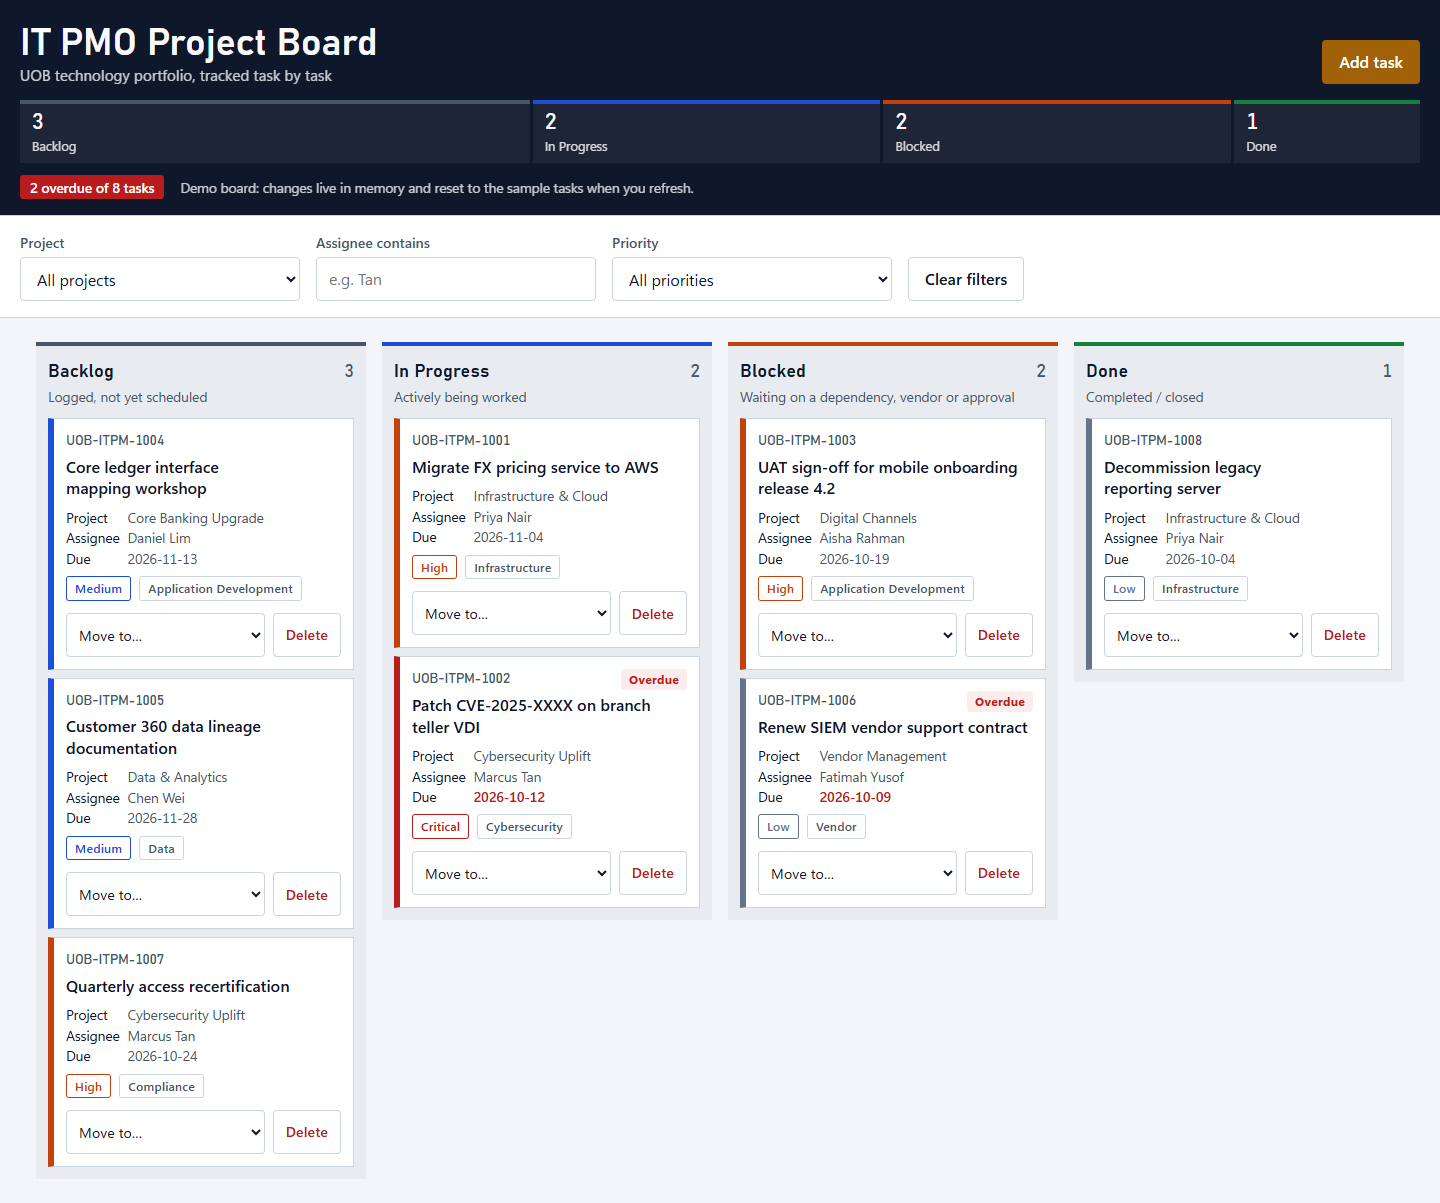
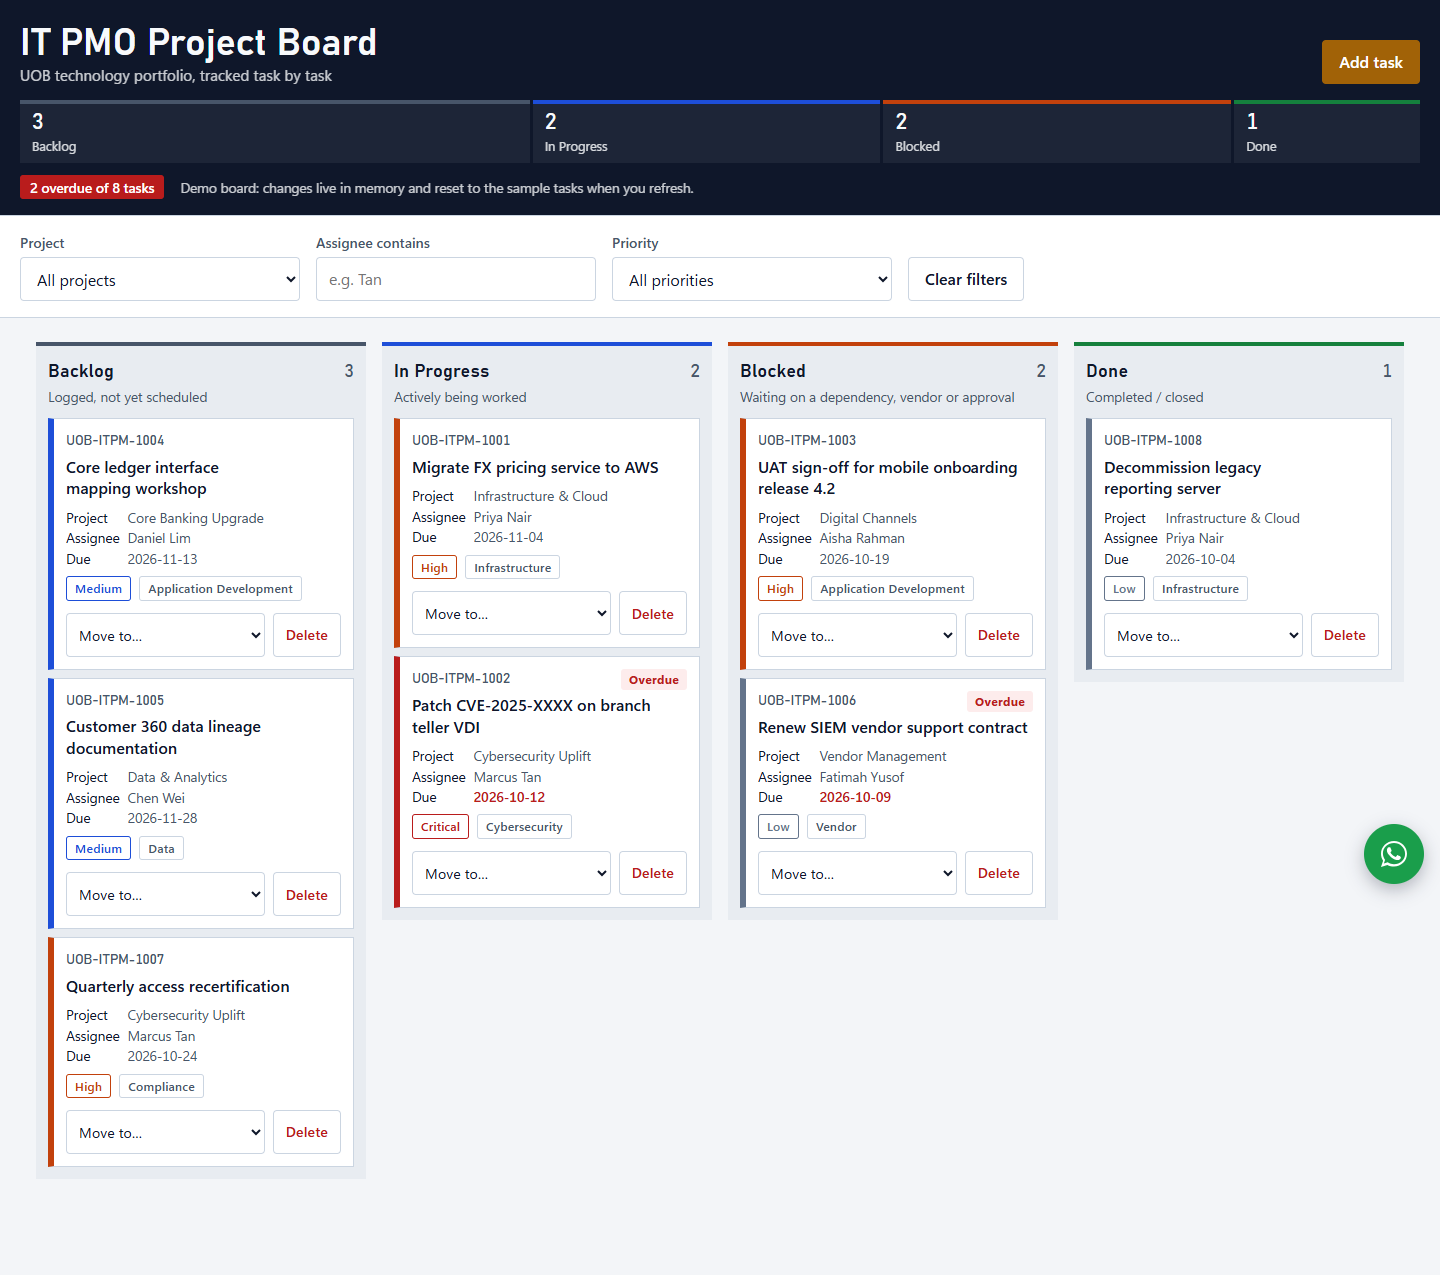
Add floating WhatsApp IT support widget

diff --git a/index.html b/index.html
@@ -36,6 +36,9 @@
   --seg-inprogress: #1d4ed8;
   --seg-blocked: #c2410c;
   --seg-done: #15803d;
+  --wa: #1a9e4b;
+  --wa-dark: #075e54;
+  --wa-soft: #e8f7ee;
   --font-display: Bahnschrift, "DIN Alternate", "Segoe UI", system-ui, sans-serif;
   --font-body: "Segoe UI Variable Text", "Segoe UI", system-ui, -apple-system, "Helvetica Neue", Arial, sans-serif;
   --space-1: 4px; --space-2: 8px; --space-3: 12px; --space-4: 16px; --space-6: 24px;
@@ -46,7 +49,7 @@
     --line: #2a3850; --navy: #060b16; --navy-ink: #f1f5f9; --trust: #93b4ff; --gold: #d4a017; --gold-ink: #0b1220;
     --focus: #facc15; --p-critical: #f87171; --p-high: #fb923c; --p-medium: #7aa2ff; --p-low: #94a3b8;
     --danger: #f87171; --danger-soft: #3b1a1a;
-    --seg-backlog: #64748b; --seg-inprogress: #3b6cf0; --seg-blocked: #d9622b; --seg-done: #22a35a;
+    --seg-backlog: #64748b; --seg-inprogress: #3b6cf0; --seg-blocked: #d9622b; --seg-done: #22a35a; --wa: #1a9e4b; --wa-dark: #0b6b5f; --wa-soft: #12321f;
     color-scheme: dark;
   }
 }
@@ -55,10 +58,11 @@
   --line: #2a3850; --navy: #060b16; --navy-ink: #f1f5f9; --trust: #93b4ff; --gold: #d4a017; --gold-ink: #0b1220;
   --focus: #facc15; --p-critical: #f87171; --p-high: #fb923c; --p-medium: #7aa2ff; --p-low: #94a3b8;
   --danger: #f87171; --danger-soft: #3b1a1a;
-  --seg-backlog: #64748b; --seg-inprogress: #3b6cf0; --seg-blocked: #d9622b; --seg-done: #22a35a;
+  --seg-backlog: #64748b; --seg-inprogress: #3b6cf0; --seg-blocked: #d9622b; --seg-done: #22a35a; --wa: #1a9e4b; --wa-dark: #0b6b5f; --wa-soft: #12321f;
   color-scheme: dark;
 }
 * { box-sizing: border-box; }
+[hidden] { display: none !important; }
 body { margin: 0; background: var(--bg); color: var(--ink); font: 16px/1.5 var(--font-body); }
 button, input, select { font: inherit; color: inherit; }
 :focus-visible { outline: 3px solid var(--focus); outline-offset: 2px; }
@@ -147,6 +151,24 @@ button, input, select { font: inherit; color: inherit; }
 .btn-delete:hover { border-color: var(--danger); }
 .confirm { margin-top: var(--space-2); padding: var(--space-2) var(--space-3); background: var(--danger-soft); display: flex; flex-wrap: wrap; gap: var(--space-2); align-items: center; font-size: .9rem; }
 .confirm span { flex: 1 1 100%; font-weight: 600; }
+/* WhatsApp IT support widget */
+main.board { padding-bottom: 96px; }
+.wa { position: fixed; right: max(var(--space-4), env(safe-area-inset-right, 0px)); bottom: calc(var(--space-4) + env(safe-area-inset-bottom, 0px)); z-index: 50; display: flex; flex-direction: column; align-items: flex-end; gap: var(--space-3); }
+.wa-toggle { width: 60px; height: 60px; border-radius: 50%; border: 0; background: var(--wa); color: #fff; cursor: pointer; display: grid; place-items: center; box-shadow: 0 6px 18px rgba(15, 23, 42, .3); transition: transform .15s; }
+.wa-toggle:hover { transform: scale(1.05); }
+.wa-toggle svg { width: 32px; height: 32px; }
+.wa-panel { width: min(360px, calc(100vw - 2 * var(--space-4))); max-height: min(70vh, 560px); display: flex; flex-direction: column; background: var(--surface); color: var(--ink); border: 1px solid var(--line); border-radius: 10px; box-shadow: 0 12px 32px rgba(15, 23, 42, .28); overflow: hidden; }
+.wa-head { display: flex; align-items: flex-start; justify-content: space-between; gap: var(--space-2); padding: var(--space-3) var(--space-4); background: var(--wa-dark); color: #fff; }
+.wa-head h2 { margin: 0; font-family: var(--font-display); font-weight: 600; font-size: 1.1rem; }
+.wa-head p { margin: 2px 0 0; font-size: .85rem; opacity: .9; }
+.wa-close { min-width: 44px; min-height: 44px; margin: -8px -10px 0 0; border: 0; background: transparent; color: #fff; font-size: 1.4rem; line-height: 1; cursor: pointer; }
+.wa-intro { margin: 0; padding: var(--space-3) var(--space-4) var(--space-2); font-size: .9rem; color: var(--ink-soft); }
+.wa-list { list-style: none; margin: 0; padding: 0 var(--space-3) var(--space-3); overflow-y: auto; display: flex; flex-direction: column; gap: var(--space-2); }
+.wa-list a { display: flex; align-items: center; justify-content: space-between; gap: var(--space-2); min-height: 44px; padding: var(--space-2) var(--space-3); border: 1px solid var(--line); border-radius: 8px; color: var(--ink); text-decoration: none; font-size: .92rem; }
+.wa-list a:hover { border-color: var(--wa); background: var(--wa-soft); }
+.wa-list a::after { content: ""; flex: 0 0 8px; height: 8px; border-top: 2px solid var(--wa-dark); border-right: 2px solid var(--wa-dark); transform: rotate(45deg); }
+.wa-list .wa-free { border-style: dashed; }
+.wa-foot { margin: 0; padding: var(--space-2) var(--space-4) var(--space-3); font-size: .78rem; color: var(--ink-soft); border-top: 1px solid var(--line); }
 @media (prefers-reduced-motion: reduce) { * { transition: none !important; } }
 </style>
 </head>
@@ -234,6 +256,24 @@ button, input, select { font: inherit; color: inherit; }
 </section>
 
 <main class="board wrap" id="board"></main>
+
+<aside class="wa" aria-label="IT support on WhatsApp">
+  <section class="wa-panel" id="wa-panel" aria-labelledby="wa-heading" hidden>
+    <div class="wa-head">
+      <div>
+        <h2 id="wa-heading">IT Support</h2>
+        <p>Chat with us on WhatsApp</p>
+      </div>
+      <button type="button" class="wa-close" id="wa-close" aria-label="Close IT support">&times;</button>
+    </div>
+    <p class="wa-intro">Pick a topic and WhatsApp opens with your message ready to send.</p>
+    <ul class="wa-list" id="wa-list"></ul>
+    <p class="wa-foot">Opens WhatsApp in a new tab. Nothing is sent until you press send there.</p>
+  </section>
+  <button type="button" class="wa-toggle" id="wa-toggle" aria-expanded="false" aria-controls="wa-panel" aria-label="Open IT support on WhatsApp">
+    <svg viewBox="0 0 32 32" aria-hidden="true" focusable="false"><path fill="currentColor" d="M16 3C8.8 3 3 8.7 3 15.8c0 2.5.7 4.9 2.1 7L3 29l6.4-2c2 1.1 4.3 1.6 6.6 1.6 7.2 0 13-5.7 13-12.8S23.2 3 16 3zm0 23.3c-2.1 0-4.1-.6-5.9-1.7l-.4-.3-3.8 1.2 1.2-3.7-.3-.4c-1.2-1.8-1.9-3.9-1.9-6.1C4.9 9.8 9.9 5 16 5s11.1 4.8 11.1 10.8S22.1 26.3 16 26.3zm6.1-8c-.3-.2-2-1-2.3-1.1-.3-.1-.5-.2-.8.2-.2.3-.9 1.1-1.1 1.3-.2.2-.4.3-.7.1-.3-.2-1.4-.5-2.7-1.7-1-.9-1.7-2-1.9-2.3-.2-.3 0-.5.1-.7l.5-.6c.2-.2.2-.3.3-.6.1-.2 0-.4 0-.6l-1-2.5c-.3-.7-.6-.6-.8-.6h-.7c-.2 0-.6.1-.9.4-.3.3-1.2 1.2-1.2 2.9s1.2 3.4 1.4 3.6c.2.2 2.4 3.7 5.9 5.1 2.9 1.1 3.5.9 4.1.9.6-.1 2-.8 2.3-1.6.3-.8.3-1.5.2-1.6-.1-.2-.4-.3-.7-.4z"/></svg>
+  </button>
+</aside>
 
 <script>
 "use strict";
@@ -569,6 +609,48 @@ function clearFilters() {
   handleFilterChange();
 }
 
+/* WhatsApp IT support: each topic opens wa.me with the message prefilled. */
+const WHATSAPP_NUMBER = "6591593440";
+const SUPPORT_QUERIES = [
+  "I can't log in or need a password reset",
+  "My VPN won't connect",
+  "Outlook or email isn't syncing",
+  "I need access to a system or shared drive",
+  "My laptop or hardware has a problem",
+  "I'd like to report a phishing email",
+  "I need software installed",
+  "The printer isn't working",
+  "What's the status of my IT ticket?"
+];
+
+function whatsappLink(message) {
+  return "https://wa.me/" + WHATSAPP_NUMBER + "?text=" + encodeURIComponent(message);
+}
+
+function renderSupportQueries() {
+  const items = SUPPORT_QUERIES.map(function (query) {
+    return '<li><a href="' + escapeHtml(whatsappLink("Hi IT Support, " + query + ".")) + '" target="_blank" rel="noopener noreferrer">' + escapeHtml(query) + "</a></li>";
+  });
+  items.push('<li><a class="wa-free" href="' + escapeHtml(whatsappLink("Hi IT Support, ")) + '" target="_blank" rel="noopener noreferrer">Something else? Start a chat</a></li>');
+  document.getElementById("wa-list").innerHTML = items.join("");
+}
+
+function toggleSupportPanel(open) {
+  const panel = document.getElementById("wa-panel");
+  const toggle = document.getElementById("wa-toggle");
+  panel.hidden = !open;
+  toggle.setAttribute("aria-expanded", String(open));
+  toggle.setAttribute("aria-label", open ? "Close IT support" : "Open IT support on WhatsApp");
+  if (open) document.querySelector("#wa-list a").focus();
+}
+
+function handleSupportKeydown(event) {
+  if (event.key === "Escape" && !document.getElementById("wa-panel").hidden) {
+    toggleSupportPanel(false);
+    document.getElementById("wa-toggle").focus();
+  }
+}
+
 function init() {
   const form = document.getElementById("add-form");
   fillSelect(form.elements.project, PROJECTS, "Choose a project");
@@ -596,6 +678,16 @@ function init() {
   document.getElementById("filter-assignee").addEventListener("input", handleFilterChange);
   document.getElementById("filter-priority").addEventListener("change", handleFilterChange);
   document.getElementById("filter-clear").addEventListener("click", clearFilters);
+
+  renderSupportQueries();
+  document.getElementById("wa-toggle").addEventListener("click", function () {
+    toggleSupportPanel(document.getElementById("wa-panel").hidden);
+  });
+  document.getElementById("wa-close").addEventListener("click", function () {
+    toggleSupportPanel(false);
+    document.getElementById("wa-toggle").focus();
+  });
+  document.addEventListener("keydown", handleSupportKeydown);
 
   seedTasks();
   renderBoard();

diff --git a/README.md b/README.md
@@ -13,6 +13,7 @@ A Kanban board for tracking UOB IT PMO tasks across Backlog, In Progress, Blocke
 - Filter by project, assignee and priority; a live summary strip shows the counts
 - Inline delete confirmation
 - 8 sample tasks; nothing is stored, so a refresh resets the board
+- Floating WhatsApp IT support button (bottom right): pick a common IT query and WhatsApp opens a chat to +65 9159 3440 with the message prefilled
 - Accessible markup, visible focus, light and dark themes
 
 ## Run locally
